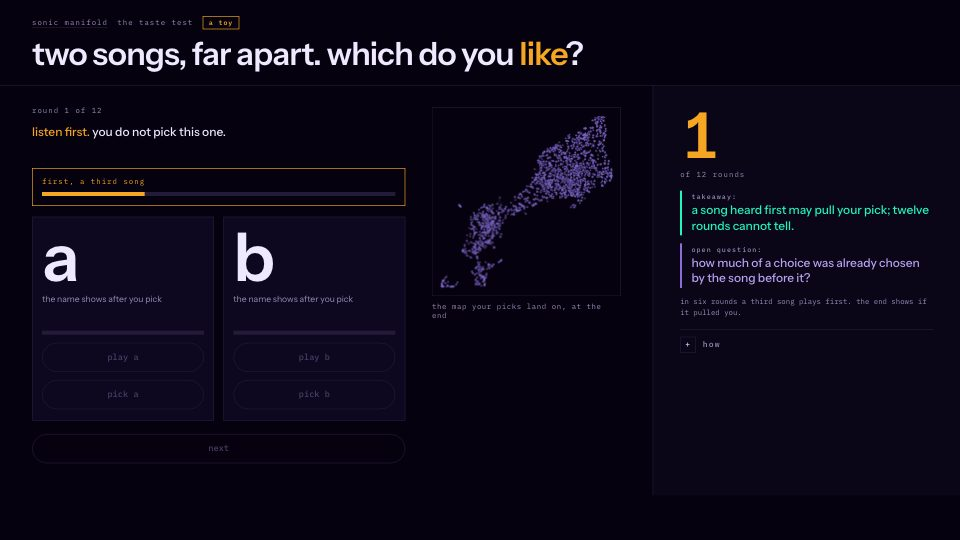
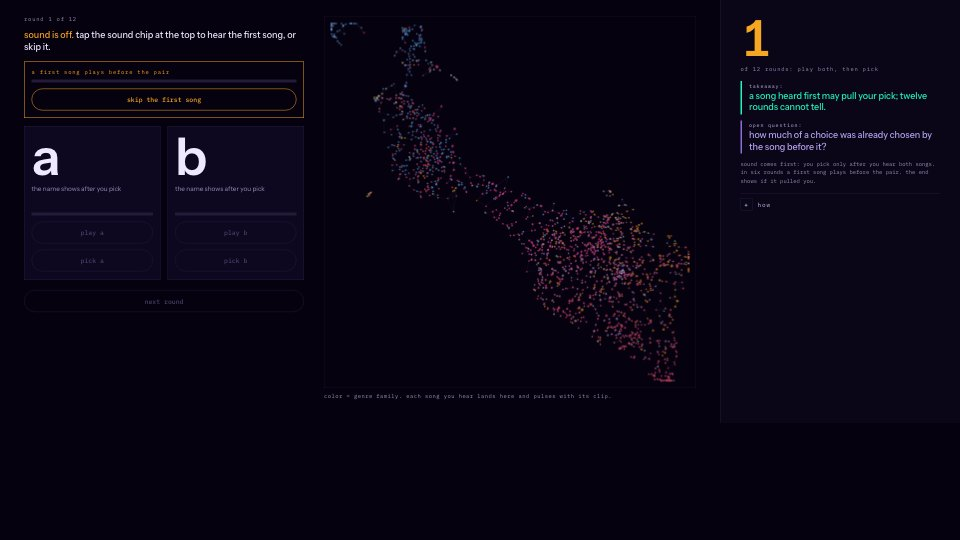
update

diff --git a/editions/taste/taste.js b/editions/taste/taste.js
@@ -131,6 +131,7 @@
   function ready() {
     $("status").textContent = S[R].primed
       ? "now play a, then b, and pick the one you like more. did the first song pull you?"
+      : S[R].skipped ? "skipped, so this round counts as one with no first song. play a, then b, and pick the one you like more."
       : "no first song this round. play a, then b, and pick the one you like more.";
     $("playA").disabled = $("playB").disabled = false;
     if (!snd()) $("status").textContent += " sound is off: tap the sound chip at the top first.";
@@ -179,10 +180,12 @@
     body.className = "done";
     let k = 0, m = 0;
     S.forEach(s => { if (s.pick === s.target) s.primed ? k++ : m++; });
-    $("sent").textContent = `after a first song, you went toward it ${k} of 6 times. with none, ${m} of 6.`;
-    $("bk").textContent = `${k} of 6`; $("bm").textContent = `${m} of 6`;
-    $("tk").textContent = `${k} of 6`; $("tkl").textContent = "picks toward the first song";
-    $("ik").style.width = (k / 6 * 100) + "%"; $("im").style.width = (m / 6 * 100) + "%";
+    const nP = S.filter(s => s.primed).length, nM = S.length - nP, sk = S.filter(s => s.skipped).length;
+    $("sent").textContent = nP ? `after a first song, you went toward it ${k} of ${nP} times. with none, ${m} of ${nM}.` + (sk ? ` (you skipped the first song ${sk === 1 ? "once" : sk + " times"}; those rounds count as none.)` : "") : `you skipped every first song, so there is nothing to compare. with none, ${m} of ${nM}.`;
+    $("bk").textContent = `${k} of ${nP}`; $("bm").textContent = `${m} of ${nM}`;
+    $("tk").textContent = `${k} of ${nP}`; $("tkl").textContent = "picks toward the first song";
+    $("ik").style.width = (nP ? k / nP * 100 : 0) + "%"; $("im").style.width = (nM ? m / nM * 100 : 0) + "%";
+    const ch = document.querySelector(".chance"); if (ch) ch.textContent = nP ? `dashed line: ${nP / 2} of ${nP}, what a coin would give on average` : "no first song was heard this time";
     const log = $("log"); log.textContent = "";
     S.forEach((s, r) => {
       const p = D.pairs[s.pi], li = document.createElement("li");
@@ -191,6 +194,7 @@
       const b = document.createElement("b"); b.textContent = p.o[s.pick].n;
       li.append(`${String(r + 1).padStart(2, "0")} · `, b, ` over ${p.o[1 - s.pick].n}`);
       if (s.primed) { const e = document.createElement("em"); e.textContent = ` · first: ${p.pr[s.target].n} · near ${p.o[s.target].n}` + (s.pick === s.target ? " · you went with it" : " · you went against it"); li.append(e); }
+      else if (s.skipped) { const e = document.createElement("em"); e.textContent = " · first song skipped, counted as none"; li.append(e); }
       log.append(li);
     });
     $("now").textContent = snd() ? "press hear your picks in order, tap a shape on the map, or tap a row." : "sound is off. tap the sound chip at the top, then hear your picks.";
@@ -221,7 +225,7 @@
     const d = k - m;
     return {
       wall: "taste", title: "the taste test", sub: "twelve rounds, a toy",
-      lines: [["with a first song", k + " of 6"], ["with none", m + " of 6"], ["gap (a toy: picks toward the first song, minus without)", (d > 0 ? "+" : "") + d], ["picked vs passed: how far apart", Math.round(span / S.length) + "% of map"], ["how scattered your picks are", Math.round(spread) + "% of map"]],
+      lines: [["with a first song", k + " of " + S.filter(s => s.primed).length], ["with none", m + " of " + S.filter(s => !s.primed).length], ["gap (a toy: picks toward the first song, minus without)", (d > 0 ? "+" : "") + d], ["picked vs passed: how far apart", Math.round(span / S.length) + "% of map"], ["how scattered your picks are", Math.round(spread) + "% of map"]],
       next: "your picks are lit on the sound map at the link below. a toy.",
       url: "https://astralcrest.github.io/sonicManifold/editions/taste/#r=" + encodeS(),
       foot: "a toy, not a finding"
@@ -250,7 +254,7 @@
     if (PK) PK.field(g, D.xy, X, Y, { pl: LD ? LD.pl : null, lo: small ? 1.6 : 2.2, hi: small ? 4.5 : 7, core: dim, col: i => LD ? col(i) : "#7a66c8" });
     else { g.fillStyle = "#7a66c8"; for (let i = 0; i < D.xy.length; i++) g.fillRect(X(i) - 1, Y(i) - 1, 2, 2); }
   }
-  function layout(w) { const pad = 14, sc = (w - 2 * pad) / 1000; return { X: i => pad + D.xy[i][0] * sc, Y: i => pad + (1000 - D.xy[i][1]) * sc }; }
+  function layout(w) { const pad = 14, sc = (w - 2 * pad) / 1000; return { X: i => pad + D.xy[i][0] * sc, Y: i => pad + D.xy[i][1] * sc }; }
 
   function drawPreview() { pvBase = null; pvFrame(); }
   function pvFrame() {
@@ -408,7 +412,7 @@
   $("playB").onclick = () => play(1);
   $("pickA").onclick = () => pick(0);
   $("pickB").onclick = () => pick(1);
-  $("skip").onclick = () => { const s = S && S[R]; if (!s || !s.primed) return; stopClip(); endPrimer(s); };
+  $("skip").onclick = () => { const s = S && S[R]; if (!s || !s.primed) return; stopClip(); clearWait(); s.primed = false; s.skipped = true; $("primer").classList.remove("on"); $("skip").disabled = true; ready(); };
   $("next").onclick = () => {
     if (!D) return;
     if (body.classList.contains("done") || !S) { tourEnd(""); newSession(); showRound(); return; }

diff --git a/editions/wallkit.js b/editions/wallkit.js
@@ -200,7 +200,7 @@
     };
   }
 
-  var PV = null, pvP = null, AU = null, plist = [], pk = -1, onstate = null;
+  var PV = null, pvP = null, AU = null, plist = [], pk = -1, onstate = null, seenN = {};
   function pv() {
     if (PV) return Promise.resolve(PV);
     if (!pvP) pvP = j('../loop/data/pv.json').then(function (x) { PV = x.a; return PV; });
@@ -213,11 +213,17 @@
     while (k < plist.length && !(PV && PV[plist[k].i])) k++;
     if (k >= plist.length) { stop(); return; }
     if (!AU) { AU = new Audio(); AU.volume = 0.25; AU.addEventListener('ended', function () { if (pk >= 0) next(pk + 1); }); }
-    var t = PV[plist[k].i]; pk = k; AU.src = t[1]; beat0 = performance.now();
+    var t = PV[plist[k].i], i = plist[k].i; pk = k; AU.src = t[1]; beat0 = performance.now();
+    // the same artist again on this page: start the clip later each time (0, 8, 16 seconds), so a repeat never sounds like a stuck record
+    var again = seenN[i] || 0; seenN[i] = again + 1;
+    var at = plist[k].at != null ? plist[k].at : (again % 3) * 8;
+    if (at > 0) AU.addEventListener('loadedmetadata', function f() { AU.removeEventListener('loadedmetadata', f); if (pk !== k) return; var d = AU.duration; try { AU.currentTime = isFinite(d) && d > 0 ? Math.min(at, Math.max(0, d - 8)) : at; } catch (e) {} });
     var pr = AU.play(); if (pr && pr.catch) pr.catch(function () {});
-    if (onstate) onstate(k, { title: t[0], tag: plist[k].tag, i: plist[k].i });
+    if (onstate) onstate(k, { title: t[0], tag: plist[k].tag, i: i, at: at, again: again });
   }
-  // list = [{i: artist index, tag: 'a' | 'b'}]; one preview at a time, only after a tap; onst(k, info) is told every change, k = -1 when stopped
+  // list = [{i: artist index, tag: 'a' | 'b', at: seconds (optional)}]; one preview at a time, only after a tap; onst(k, info) is told every change, k = -1 when stopped
+  // again(info): the words for a repeat, '' the first time
+  function again(info) { return info && info.again ? (info.at ? ', this artist again, so the clip starts ' + info.at + ' s in' : ', this artist again, from the top') : ''; }
   function play(list, onst) { onstate = onst; plist = list; return pv().then(function () { next(0); }, function () { if (onst) onst(-1, null); }); }
 
   var liveT = null;
@@ -303,5 +309,5 @@
   }
   strip();
 
-  root.WK = { sound: function () { return SND; }, setSound: setSound, P: P, j: j, FAMC: FAMC, C: C, $: $, boot: boot, Map: Map, pv: pv, title: title, play: play, stop: stop, playing: playing, esc: esc, beat: beat, live: live, still: still, pulse: pulse };
+  root.WK = { sound: function () { return SND; }, setSound: setSound, P: P, j: j, FAMC: FAMC, C: C, $: $, boot: boot, Map: Map, pv: pv, title: title, play: play, again: again, stop: stop, playing: playing, esc: esc, beat: beat, live: live, still: still, pulse: pulse };
 })(window);

diff --git a/editions/taste/index.html b/editions/taste/index.html
@@ -159,7 +159,7 @@ nav.walls a[aria-current]{color:var(--act);text-decoration:underline;text-underl
     <div class="bar u"><div class="t"><span>with no first song, picks toward a side drawn the same way</span><b id="bm">0 of 6</b></div><div class="track"><i id="im"></i><u></u></div></div>
     <div class="chance">dashed line: 3 of 6, what a coin would give on average</div>
   </div>
-  <details class="fine"><summary>the fine print</summary><p>a demonstration, not a finding: twelve rounds cannot separate a pull from chance.</p><p>each first song sits near one side; with none, a side is drawn the same way.</p><p>if you skip a first song, that round still counts as one with a first song.</p></details>
+  <details class="fine"><summary>the fine print</summary><p>a demonstration, not a finding: twelve rounds cannot separate a pull from chance.</p><p>each first song sits near one side; with none, a side is drawn the same way.</p><p>if you skip a first song, that round counts as one with none, and the totals say how many were heard.</p></details>
   <div id="mapbox">
     <div class="k">your picks on my sound map</div>
     <p class="cap">each shape is an artist i have heard, colored by genre family. close together = sounds alike. hover for a name, tap to hear it.</p>

diff --git a/editions/longhold/longhold.js b/editions/longhold/longhold.js
@@ -88,7 +88,7 @@ function walkFrom(k0) {
     if (info) {
       S.k = S.k0 + k;
       var prev = S.k > 0 ? fam(S.list[S.k - 1]) : null, f = fam(info.i);
-      $('now').textContent = 'stop ' + (S.k + 1) + ' of ' + S.list.length + ' nearest your finger: ' + D.n[info.i] + ' (' + f + (prev && prev !== f ? ', a new family' : '') + '). hearing ' + info.title + '.' + (S.k + 1 < S.list.length ? ' next: ' + D.n[S.list[S.k + 1]] + '.' : '');
+      $('now').textContent = 'stop ' + (S.k + 1) + ' of ' + S.list.length + ' nearest your finger: ' + D.n[info.i] + ' (' + f + (prev && prev !== f ? ', a new family' : '') + '). hearing ' + info.title + WK.again(info) + '.' + (S.k + 1 < S.list.length ? ' next: ' + D.n[S.list[S.k + 1]] + '.' : '');
       WK.live(function () { draw(); });
     } else { S.k = -1; WK.still(); draw(); if (S.held) $('now').textContent = 'the six nearest have played. keep holding to watch the pull.'; }
     out();

diff --git a/editions/applause/applause.js b/editions/applause/applause.js
@@ -30,7 +30,7 @@ function playCur() {
   WK.play([{ i: S.L[S.idx], tag: 'a' }], function (k, info) {
     if (my !== S.token) return;
     if (k < 0) { WK.still(); setTimeout(function () { if (my === S.token && S.active) ended(); }, 400); return; }
-    $('now').textContent = 'step ' + (S.idx + 1) + ' of ' + S.L.length + ': ' + info.title + ' by ' + D.n[info.i] + ', ' + describe(info.i) + (S.L[S.idx + 1] != null ? '. next: ' + D.n[S.L[S.idx + 1]] : '') + (WK.sound() ? '' : '. sound is off; tap the sound chip to hear it.');
+    $('now').textContent = 'step ' + (S.idx + 1) + ' of ' + S.L.length + ': ' + info.title + ' by ' + D.n[info.i] + ', ' + describe(info.i) + WK.again(info) + (S.L[S.idx + 1] != null ? '. next: ' + D.n[S.L[S.idx + 1]] : '') + (WK.sound() ? '' : '. sound is off; tap the sound chip to hear it.');
     WK.live(function () { S.dirty = true; });
   });
 }

diff --git a/sw.js b/sw.js
@@ -8,7 +8,7 @@
    (the per-day records, the full roster, the tracks) are never named here. the round-5 pass-2 stops and angles (rooms/bail,
    loop, arrivals, wheel, fade, gates, map.ghost .js; data/bail, loops, arrivals, wheel_agg, whopressed2, bi_conditions, gates,
    ghost .json) are cached on first use by the .js/.json stale-while-revalidate rule below, under the new VERSION */
-var VERSION = 'sm-v70';
+var VERSION = 'sm-v71';
 /* show-night walls: small pages, scripts and data warmed at install. pv.json (353 KB) and all audio stay out: first tap only. */
 var WALLS = ['/editions/loop/', '/editions/loop/index.html', '/editions/loop/loop.js', '/editions/loop/data/loop.json', '/editions/loop/data/fit.json',
   '/editions/two/', '/editions/two/index.html', '/editions/two/two.js', '/editions/two/data/samples.json', '/editions/two/data/qr.svg',

diff --git a/editions/way/way.js b/editions/way/way.js
@@ -149,7 +149,7 @@ function walk(which, from) {
       S.wk = at;
       m = 'stop ' + at + ' of ' + (path.length - 1) + (which === 'mine' ? ' on my way' : ' on the short way') + ': ' + D.n[pi] + ', ' + D.fam[D.f[pi]];
       if (pr >= 0 && D.f[pr] !== D.f[pi]) m += ', a change from ' + D.fam[D.f[pr]];
-      m += '. hearing ' + info.title + (at + 1 < path.length ? '. next: ' + D.n[path[at + 1]] : '. the end') + '. tap a star on the line to jump there.';
+      m += '. hearing ' + info.title + WK.again(info) + (at + 1 < path.length ? '. next: ' + D.n[path[at + 1]] : '. the end') + '. tap a star on the line to jump there.';
       $('now').textContent = m; WK.live(draw);
     } else { WK.still(); draw(); $('now').textContent = S.wk >= 0 && S.walk ? 'the walk ended. draw another, or walk the other way.' : ''; S.wk = -1; draw(); }
     hearLabel();

diff --git a/editions/stand/stand.js b/editions/stand/stand.js
@@ -57,7 +57,7 @@ function onst(k, info) {
     if (tap) $('now').textContent = 'hearing ' + info.title + ' by ' + D.n[info.i] + ' (' + fam(info.i) + ').';
     else {
       var prev = kk > 0 ? fam(S.near[kk - 1]) : null, nx = kk + 1 < tot ? ', then ' + D.n[S.near[kk + 1]] : ', the last one';
-      $('now').textContent = 'stop ' + (kk + 1) + ' of ' + tot + ': ' + D.n[info.i] + ' (' + fam(info.i) + (prev && prev !== fam(info.i) ? ', a new family' : '') + ')' + nx + '. hearing ' + info.title + '.';
+      $('now').textContent = 'stop ' + (kk + 1) + ' of ' + tot + ': ' + D.n[info.i] + ' (' + fam(info.i) + (prev && prev !== fam(info.i) ? ', a new family' : '') + ')' + nx + '. hearing ' + info.title + WK.again(info) + '.';
     }
     WK.live(draw);
   } else { S.cur = null; S.k = -1; WK.still(); draw(); $('now').textContent = IDLE; }

diff --git a/editions/scrub/scrub.js b/editions/scrub/scrub.js
@@ -77,9 +77,8 @@ function walkFrom(k0) {
     if (info) {
       var kk = S.walk.k0 + k, prev = kk > 0 ? fam(list[kk - 1]) : null, f = fam(info.i);
       S.walk.k = kk; S.cur = info.i;
-      var same = kk > 0 && list[kk - 1] === info.i;
       $('say').textContent = 'step ' + (kk + 1) + ' of ' + list.length + ' on your path: ' + D.n[info.i] + ' (' + f + (prev && prev !== f ? ', a new family' : '') + ')' + (kk + 1 < list.length ? ', then ' + D.n[list[kk + 1]] : ', the last stop') + '.';
-      $('now').textContent = 'hearing ' + info.title + (same ? ' (same artist again)' : '') + '.';
+      $('now').textContent = 'hearing ' + info.title + WK.again(info) + '.';
       WK.live(draw);
     } else { WK.still(); S.walk = null; draw(); out(); $('now').textContent = IDLE; }
     btns();

diff --git a/editions/pour/pour.js b/editions/pour/pour.js
@@ -109,7 +109,7 @@ function playFrom(c, single) {
       msg = 'step ' + st + ' of ' + STEPS + ' (' + (who ? 'auto-play' : 'my press') + '): ' + D.n[info.i] + ', ' + D.fam[D.f[info.i]];
       if (D.f[info.i] !== D.f[prev]) msg += ', a change from ' + D.fam[D.f[prev]];
       if (st < STEPS) msg += '. next: ' + D.n[S.path[st + 1]];
-      if (WK.title(info.i)) msg += '. hearing ' + info.title;
+      if (WK.title(info.i)) msg += '. hearing ' + info.title + WK.again(info);
       $('now').textContent = msg;
       WK.live(draw);
     } else { S.hear = null; WK.still(); draw(); $('now').textContent = NOW0; }
